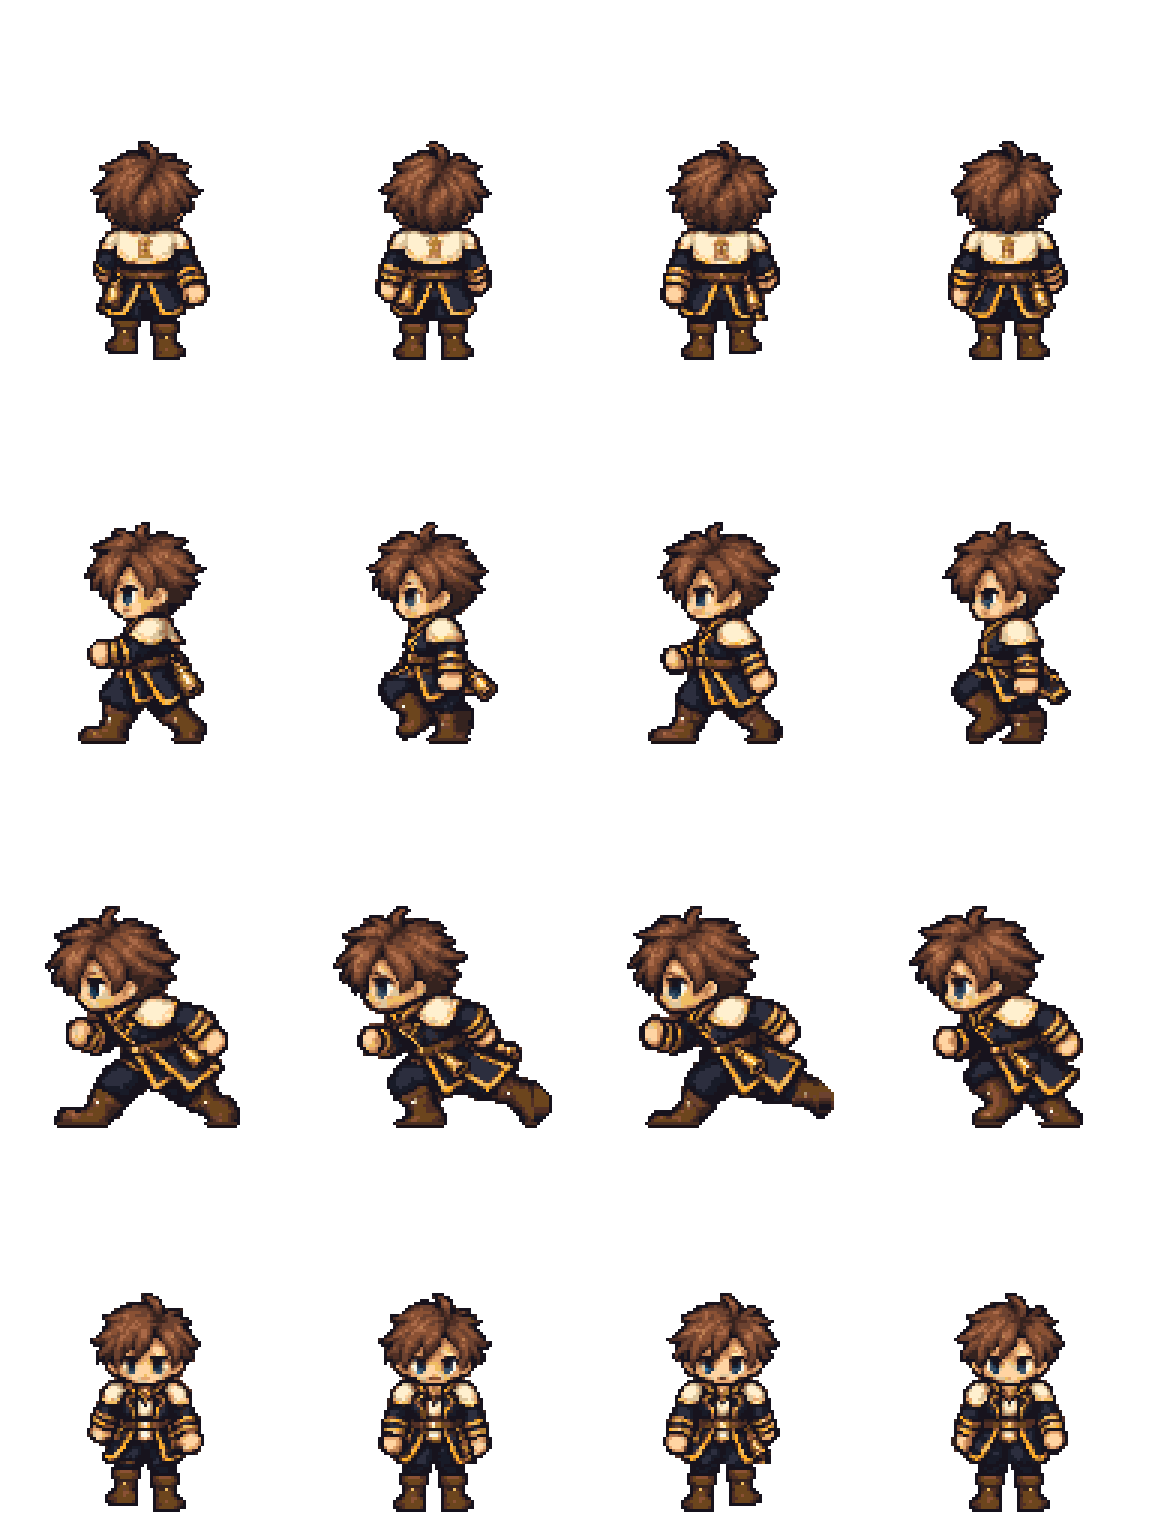
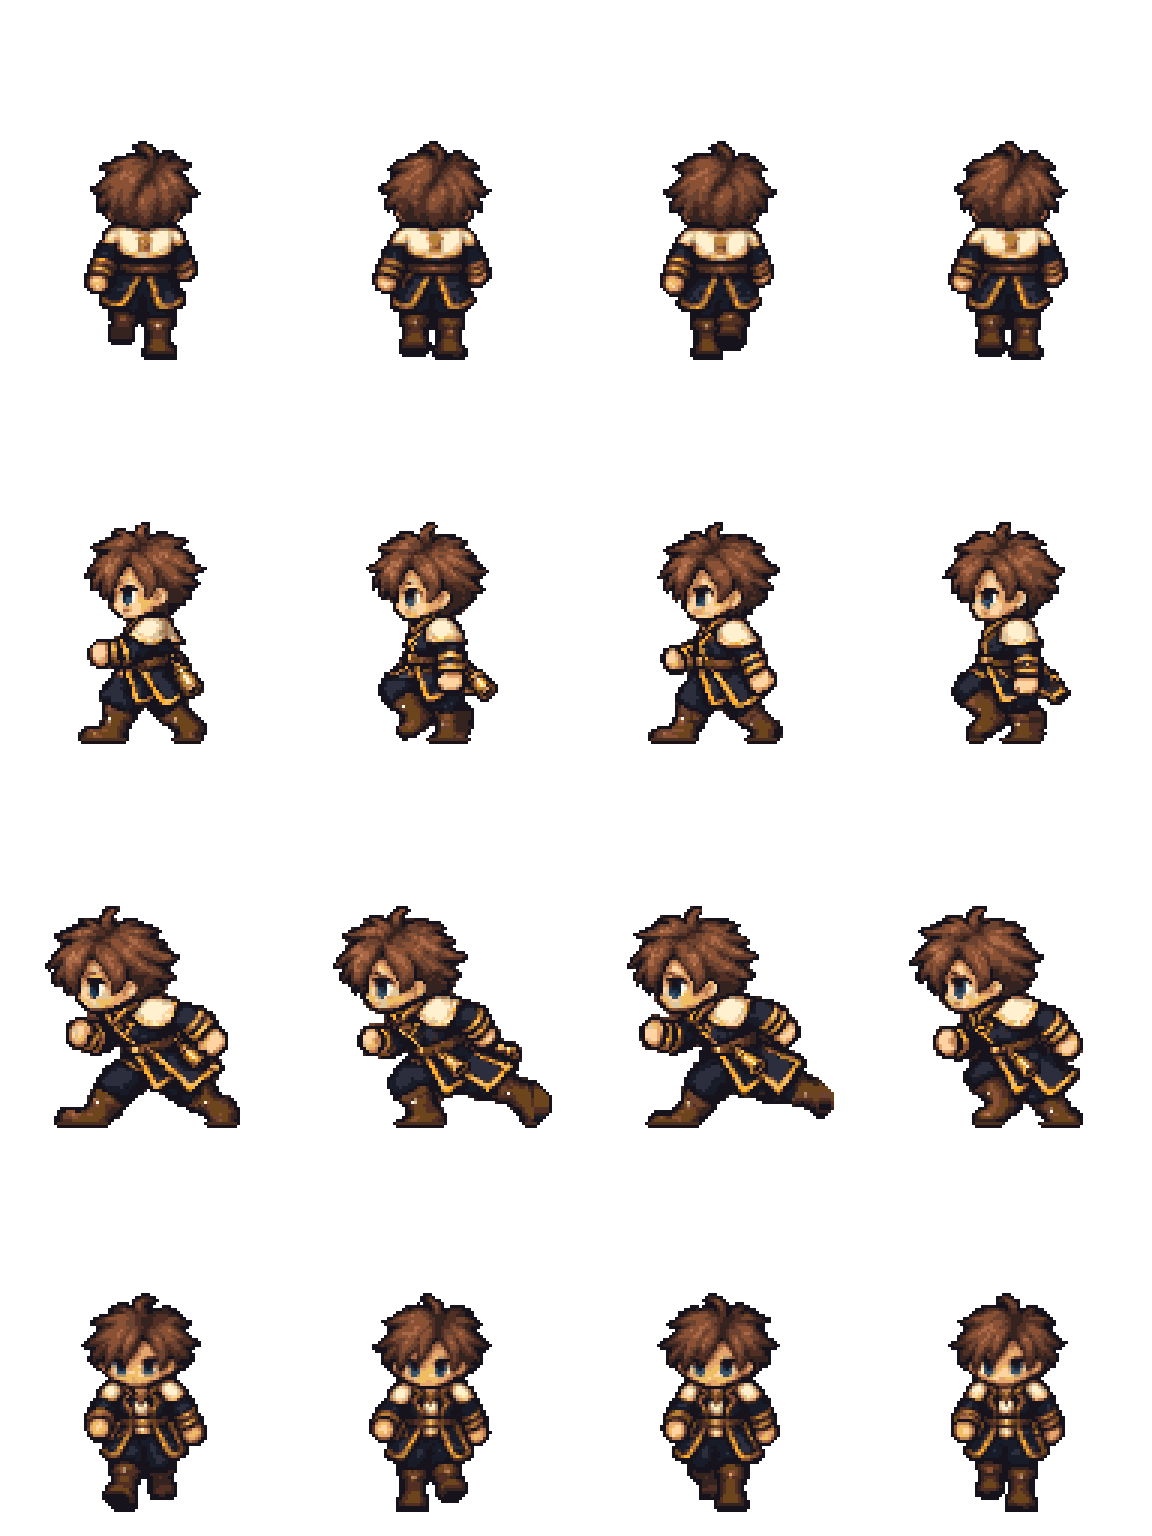
D-088: hero front/back walk from Codex K-139 concept, refined to game grid and palette by Claude

diff --git a/Docs/References/claude_k139_refine_v1/refine.py b/Docs/References/claude_k139_refine_v1/refine.py
@@ -1,0 +1,59 @@
+from PIL import Image;import numpy as np,collections,sys
+S=r'C:\Users\User\AppData\Local\Temp\claude\C--Unity-1-HumanLastRampart\9f0dc00c-aa09-4284-9d23-fb368fa7bf5d\scratchpad'
+G=r'C:\Unity\1\HumanLastRampart\Game\Assets\_Project\Art\Characters\Hero\hero_walk_run_grid.png'
+con=np.array(Image.open(S+r'\k139_concept.png')).astype(float)
+cur=np.array(Image.open(G))
+NH=int(sys.argv[1]) if len(sys.argv)>1 else 73   # native figure height
+# palette + outline colour from current rows 0/3
+pal=collections.Counter();edge=collections.Counter()
+for r in (0,3):
+  c=cur[r*384:(r+1)*384]
+  op=c[:,:,3]>128
+  for y,x in zip(*np.where(op)):
+    if y%3 or x%3: continue
+    col=tuple(c[y,x,:3]);pal[col]+=1
+    if y+3<384 and x+3<c.shape[1] and x>=3 and (not op[y+3,x] or not op[y,x-3] or not op[y,x+3]): edge[col]+=1
+P=np.array([k for k,v in pal.items() if v>=3],float)
+outline=np.array(edge.most_common(1)[0][0])
+print('palette',len(P),'outline',outline)
+al=con[:,:,3]>40
+figs=[]
+for (y0,y1) in [(47,422),(463,845)]:
+  sub=al[y0:y1].any(0);xs=np.where(sub)[0]
+  # split columns
+  runs=[];s=xs[0];p=xs[0]
+  for x in xs[1:]:
+    if x>p+1: runs.append((s,p+1));s=x
+    p=x
+  runs.append((s,p+1))
+  figs.append([(y0,y1,a,b) for a,b in runs if b-a>20])
+out=np.zeros((768,1152,4),np.uint8)
+for ri,row in enumerate(figs):
+  for k,(y0,y1,x0,x1) in enumerate(row):
+    f=con[y0:y1,x0:x1]
+    a=f[:,:,3]/255.0
+    ys=np.where(a.max(1)>0.15)[0];f=f[ys[0]:ys[-1]+1];a=a[ys[0]:ys[-1]+1]
+    h,w=a.shape;s=NH/h;nw=max(1,round(w*s))
+    pm=np.dstack([f[:,:,:3]*a[:,:,None],a*255])
+    im=Image.fromarray(pm.clip(0,255).astype(np.uint8),'RGBA').resize((nw,NH),Image.BOX)
+    n=np.array(im).astype(float)
+    na=n[:,:,3]/255.0;op=na>0.5
+    rgb=np.where(op[:,:,None],n[:,:,:3]/np.maximum(na,1e-3)[:,:,None],0)
+    # nearest palette colour
+    d=((rgb[:,:,None,:]-P[None,None])**2).sum(-1);q=P[d.argmin(-1)]
+    # outline on silhouette border
+    pad=np.pad(op,1)
+    border=op&~(pad[:-2,1:-1]&pad[2:,1:-1]&pad[1:-1,:-2]&pad[1:-1,2:])
+    q[border]=outline
+    big=np.kron(np.dstack([q,op*255.0]),np.ones((3,3,1)))
+    bh,bw=big.shape[:2]
+    oy=ri*384+360-bh; ox=k*288+144-bw//2
+    ox-= ox%3 - (k*288)%3   # keep 3px grid
+    reg=out[oy:oy+bh,ox:ox+bw];m=big[:,:,3]>0
+    reg[m]=big[m].astype(np.uint8)
+Image.fromarray(out).save(S+r'\k139_new.png')
+# preview: current row0/3 vs new, 2x on grey
+pv=Image.new('RGBA',(1152,768*2),(120,124,130,255))
+c0=Image.fromarray(np.vstack([cur[0:384],cur[3*384:4*384]]))
+pv.alpha_composite(c0,(0,0));pv.alpha_composite(Image.fromarray(out),(0,768))
+pv.resize((1152,1536),Image.NEAREST).save(S+r'\photos\k139_refine_preview.png')

diff --git a/Docs/References/claude_k139_refine_v1/finish.py b/Docs/References/claude_k139_refine_v1/finish.py
@@ -1,0 +1,53 @@
+from PIL import Image;import numpy as np,math
+S=r'C:\Users\User\AppData\Local\Temp\claude\C--Unity-1-HumanLastRampart\9f0dc00c-aa09-4284-9d23-fb368fa7bf5d\scratchpad'
+G=r'C:\Unity\1\HumanLastRampart\Game\Assets\_Project\Art\Characters\Hero\hero_walk_run_grid'
+new=np.array(Image.open(S+r'\k139_new.png'))
+cur=np.array(Image.open(G+'.png'));curn=np.array(Image.open(G+'_normal.png'))
+order={0:[0,1,3,1],1:[0,2,3,1]}   # back: L-up, both down, R-up, both down / front: L step, R lift, R step, L lift
+sheet=cur.copy();sheet[0:384]=0;sheet[3*384:]=0
+for nr,sr in ((0,0),(1,3)):
+  for k,src in enumerate(order[nr]):
+    sheet[sr*384:(sr+1)*384,k*288:(k+1)*288]=new[nr*384:(nr+1)*384,src*288:(src+1)*288]
+# round the coat hem corner above the lifted left leg in back frame 0 (otherwise one 30 px straight side)
+sheet[321:324,108:111]=0; sheet[321:324,111:114]=(23,19,29,255)
+T=[0.52,0.42,0.29,0.15]
+def tilt(d): return T[d] if d<4 else 0.0
+norm=curn.copy()
+for sr in (0,3):
+  norm[sr*384:(sr+1)*384]=(128,128,255,255)
+  for k in range(4):
+    a=sheet[sr*384:(sr+1)*384:3,k*288:(k+1)*288:3,3]>128
+    H,W=a.shape
+    for y in range(H):
+      for x in range(W):
+        if not a[y,x]: continue
+        def run(dy,dx):
+          d=0
+          while 0<=y+(d+1)*dy<H and 0<=x+(d+1)*dx<W and a[y+(d+1)*dy,x+(d+1)*dx]: d+=1
+          return d
+        dl,dr,du,dd=run(0,-1),run(0,1),run(-1,0),run(1,0)
+        sx=-tilt(dl) if dl<dr else (tilt(dr) if dr<dl else 0.0)
+        sy=tilt(du) if du<dd else (-tilt(dd) if dd<du else 0.0)
+        z=math.sqrt(max(0.0,1-sx*sx-sy*sy));l=math.sqrt(sx*sx+sy*sy+z*z)
+        v=(round(128+127*sx/l),round(128+127*sy/l),round(128+127*z/l),255)
+        Y=sr*384+y*3;X=k*288+x*3
+        norm[Y:Y+3,X:X+3]=v
+assert (sheet[384:3*384]==cur[384:3*384]).all() and (norm[384:3*384]==curn[384:3*384]).all()
+Image.fromarray(sheet).save(S+r'\sole\k139_sheet.png');Image.fromarray(norm).save(S+r'\sole\k139_sheet_normal.png')
+# checks (same as HeroSheetEdgeTests)
+bad=[]
+for r in range(4):
+  for c in range(4):
+    cell=sheet[r*384:(r+1)*384,c*288:(c+1)*288];op=cell[:,:,3]>128;tr=cell[:,:,3]<20
+    best=0
+    for d in (-1,1):
+      for x in range(1,287):
+        run=0
+        for y in range(384):
+          if op[y,x] and tr[y,x+d]: run+=1;best=max(best,run)
+          else: run=0
+    ys=np.where(op.any(1))[0];b=ys[-1];row=cell[b][op[b]]
+    dark=((row[:,0]<55)&(row[:,1]<55)&(row[:,2]<55)).sum()
+    print(r,c,'edge',best,'bottom',b,'dark',dark,'/',len(row))
+    if best>30 or dark<len(row)*0.85: bad.append((r,c))
+print('BAD',bad)

diff --git a/Game/Assets/_Project/Combat/Tests/HeroSheetEdgeTests.cs b/Game/Assets/_Project/Combat/Tests/HeroSheetEdgeTests.cs
@@ -11,6 +11,7 @@ namespace HumanLastRampart.Combat.Tests
     // 걷기 행(행 1) 1·3번 칸은 앞 장화 끝이 칸 안쪽에서 잘려 있었다 (33~42화소, 맨 끝 줄이 아니라 놓쳤다) — Codex K-134로 고쳐졌다.
     // 그래서 맨 끝 줄만이 아니라 칸 안의 모든 세로 윤곽(불투명 옆이 투명)을 본다. 잘린 칸이 하나라도 생기면 실패한다
     // 앞·뒤 걷기 행(0·3)은 한쪽 다리가 외투 밑에서 끊겨 있어 서 있는 뒷모습 그림의 두 다리로 바꿨다 (2026-11-02, 사용자 허락으로 Claude가 고침)
+    // 그 뒤 앞·뒤 걷기 행은 코덱스 K-139 새 시안을 Claude가 게임 격자·색에 맞춰 다듬은 그림으로 바꿨다 (D-088)
     public sealed class HeroSheetEdgeTests
     {
         const string Dir = "_Project/Art/Characters/Hero/";

diff --git a/Tools/CodexCards/briefs/K-139.md b/Tools/CodexCards/briefs/K-139.md
@@ -1,0 +1,19 @@
+Card K-139 - draw a BRAND-NEW front/back walk cycle for the hero as a new image file, from scratch (assets only, no code).
+
+Why: K-135, K-136 and K-138 tried to patch the legs inside the existing sheet and all failed (patches stayed one-legged or changed the upper body). The user now asks for a fresh drawing: start a new canvas, look at the images we used before, and draw the walk frames anew.
+
+Reference images (read-only, look at all of them first):
+- Game/Assets/_Project/Art/Characters/Hero/hero_walk_run_grid.png - current hero sheet (commit d0dba54d). 4x4 grid, cell 288x384, pivot (144,360), contact line y=359, 3 px pixel grid (3x upscaled pixel art). Rows: 0 back walk, 1 side walk, 2 side run, 3 front walk. Rows 0/3 are what we are replacing.
+- Game/Assets/_Project/Art/Characters/Hero/hero_back_idle.png - current standing back view (two clean legs; the look to match).
+- Game/Assets/_Project/Art/Characters/Hero/hero_command.png - current hero, other poses (palette, outline, light direction).
+- Docs/References/hero_history/2_10-21_흰머리_시트.png - previous white-haired hero, SAME grid. Its rows 0 and 3 are the user's favourite leg motion: both legs always visible, knee bend, lifted boot with sole showing, toe caps (front) / heels (back).
+- Docs/References/hero_history/1_10-14_첫주인공_시트.png and 3_10-23_루멘A안_시트.png - earlier versions, for context only.
+- Docs/References/claude_hero_legs_v1/ - Claude's paste of the idle legs (current fallback), to see what is NOT good enough.
+
+Task: create a NEW file Docs/References/codex_k139_v1/hero_walk_frontback_new.png, 1152x768 (4 columns x 2 rows of 288x384 cells): row 0 = back walk 4 frames, row 1 = front walk 4 frames. Draw each frame as a whole new pixel-art figure of the CURRENT hero (Lumen: brown messy hair, navy cadet coat with gold trim, cream shoulder cape, brown belt, dark navy trousers, brown boots) at the same size, proportions, outline thickness, palette, 3 px pixel grid and top-left light as the current sheet, so it sits beside rows 1/2 without looking like a different artist. The leg motion follows the white-haired sheet frame by frame (contact, passing, contact, passing - mirrored). Arms swing opposite to legs; small body bob is fine. Feet: each frame's figure stands on y=359 inside its cell, centred on x=144.
+Also produce hero_walk_frontback_new_normal.png (same size, matching normal map in the style of hero_walk_run_grid_normal.png) and hero_walk_run_grid_merged.png (+ _normal) = the current 1152x1536 sheet with rows 0 and 3 replaced by your new rows, rows 1/2 pixel-identical.
+
+Checks to report per frame: bottom opaque row >= 85% dark (RGB<55, a closed sole outline); no straight vertical silhouette edge of 31 px or longer; both legs visible in every frame; last opaque row y=359.
+Follow the NO AI SLOP rule in COMMON.md (do-not list first). No smooth gradients, no blur, no anti-aliasing - hard pixels on the 3 px grid only.
+Output folder: Docs/References/codex_k139_v1/ - the files above, a comparison sheet (white-haired | current | new, rows back and front, 2x on stone grey), README.md (Korean) with the check results, and review page _HTML/6_그림_화면/codex_K-139_주인공앞뒤걷기_새로그림_v1.html animating both new walk cycles next to the current ones. Do NOT overwrite anything under Game/.
+- Start clean: do not open earlier Codex attempts (Docs/References/codex_k135_v1 ... codex_k138_v1).

diff --git a/Docs/collab/rules/DECISIONS.md b/Docs/collab/rules/DECISIONS.md
@@ -773,3 +773,8 @@
 - 앞·뒤 걷기(행 0·3) 8칸: 외투 아래를 서 있는 뒷모습(hero_back_idle) 그림의 두 다리로 바꾸고, 걸음마다 한쪽 발을 6화소 들어 올림. 머리·몸·팔은 그대로.
 - 옆 걷기·달리기(행 1·2) 8칸: 그림을 3화소 올리고 맨 아래 줄에 어두운 밑창 윤곽을 그림.
 - 시험: HeroSheetEdgeTests가 칸 맨 아래 줄 어두운 비율 85% 미만이면 실패. 만든 방법은 Docs/References/claude_hero_legs_v1/.
+
+## D-088 주인공 앞·뒤 걷기는 코덱스 새 시안을 Claude가 다듬어 씀 (2026-11-02)
+- 사용자: "코덱스 시안 다듬어서 써봐". 코덱스 K-139(기억 없이 새로 띄운 실행)가 흰머리 시트 걸음을 따라 앞·뒤 걷기 8장을 처음부터 그렸으나 크기·픽셀 격자가 안 맞아 스스로 보류함.
+- Claude가 다듬음: 칸마다 잘라 키 73칸(3배 → 219화소)으로 줄이고, 지금 시트 색 26가지로 맞추고, 윤곽선을 둘레에 두르고, 발끝을 y=359·가운데 x=144에 맞춤. 걸음 순서 정리(뒤: 0,1,3,1 / 앞: 0,2,3,1). 뒤 걷기 1번 칸 외투 모서리 한 칸을 깎아 곧은 단면 33화소를 없앰. 빛 반사 그림은 지금 시트 규칙(둘레 4칸 기울기)으로 새로 만듦.
+- 행 1·2(옆 걷기·달리기)는 그대로. D-087의 서 있는 다리 붙이기는 이것으로 바뀜. 만든 방법·원본 시안: Docs/References/claude_k139_refine_v1/.
